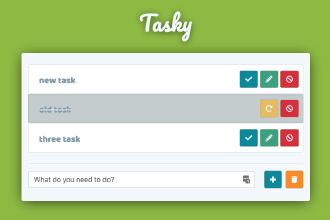
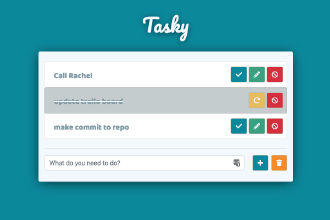
new color
added new primary color, added signature, meta sign, new tasky picture, temp favicon

diff --git a/assets/css/style.css b/assets/css/style.css
@@ -1,1 +1,1 @@
-*,*:before,*:after{padding:0;margin:0;-webkit-box-sizing:border-box;box-sizing:border-box}body{width:100%;height:100%;font-family:"Varela Round",sans-serif;background:#FAFAFA;overflow-x:hidden}ul{list-style-type:none}::-webkit-scrollbar{width:5px}::-webkit-scrollbar-track{background:#FAFAFA}::-webkit-scrollbar-thumb{background:#5C6A75}.btn-menu{z-index:2;display:none;-webkit-box-pack:center;-ms-flex-pack:center;justify-content:center;-webkit-box-align:center;-ms-flex-align:center;align-items:center;width:65px;height:50px;color:#FAFAFA;background:#59C3C3;border-bottom-right-radius:5px;-webkit-transition:1s;transition:1s;cursor:pointer}.btn-menu__icon{font-size:56px;-webkit-transition:1s;transition:1s}.btn-menu--open{-webkit-transform:translateX(300%);transform:translateX(300%)}.btn-menu--open .btn-menu__icon{-webkit-transition:1s;transition:1s;-webkit-transform:rotate(180deg);transform:rotate(180deg)}.menu-vertival{position:fixed;z-index:2;display:-webkit-box;display:-ms-flexbox;display:flex;-webkit-box-orient:vertical;-webkit-box-direction:normal;-ms-flex-direction:column;flex-direction:column;-webkit-box-pack:center;-ms-flex-pack:center;justify-content:center;-webkit-box-align:center;-ms-flex-align:center;align-items:center;min-width:200px;height:100%;text-align:center;background:#59C3C3;-webkit-transition:1s;transition:1s}.menu-vertival--open{-webkit-transform:translateX(0) !important;transform:translateX(0) !important;-webkit-transition:1s;transition:1s}.menu-vertival__list{margin-top:10px;text-transform:uppercase}.menu-vertival__list__child{margin:25px;border-bottom:solid 2px #59C3C3}.menu-vertival__list__child:hover a{color:#FAFAFA}.menu-vertival__item{font-size:22px;color:#b7e5e5;text-decoration:none;cursor:pointer}.menu-vertival__item--active a{color:#FAFAFA}.about{display:-webkit-box;display:-ms-flexbox;display:flex;-ms-flex-pack:distribute;justify-content:space-around;border-top:none !important;min-height:100vh;padding:45px;max-width:1250px}.about__box{display:-webkit-box;display:-ms-flexbox;display:flex}.profile-data__picture{width:90%;max-width:400px;height:auto;margin-bottom:10px;border-radius:5px;border:solid 5px #5C6A75}.about-colum{display:-webkit-box;display:-ms-flexbox;display:flex;-webkit-box-orient:vertical;-webkit-box-direction:normal;-ms-flex-direction:column;flex-direction:column;-webkit-box-pack:center;-ms-flex-pack:center;justify-content:center}.about-colum:nth-child(1){width:40%}.about-colum:nth-child(2){width:60%}.about__title{font-family:"Fredoka One",cursive;color:#59C3C3;font-size:52px}.about__subtitle{font-family:"Varela Round",sans-serif;color:#5C6A75;font-size:42px}.about__description{margin-top:35px;margin-bottom:35px}.networks__title{width:90%;text-align:center;color:#5C6A75;font-size:18px}.networks__list{display:-webkit-box;display:-ms-flexbox;display:flex;width:90%;max-width:400px;-webkit-box-pack:center;-ms-flex-pack:center;justify-content:center}.networks__list__item{margin-top:10px;margin-left:5px;margin-right:5px}.networks__link{text-decoration:none}.networks__icon{display:-webkit-box;display:-ms-flexbox;display:flex;-webkit-box-pack:center;-ms-flex-pack:center;justify-content:center;-webkit-box-align:center;-ms-flex-align:center;align-items:center;width:36px;height:36px;font-size:18px;border-radius:5px;background:#5C6A75;color:#FAFAFA}.networks__icon:hover{background:#59C3C3}.networks--mobile{display:none}.download-cv{margin-bottom:20px}.download-cv--container{padding:5px;color:#FAFAFA;text-decoration:none;border-radius:5px;background:#5C6A75}.download-cv--container:hover{background:#59C3C3}.download-cv--container:hover .download-cv--icon{-webkit-animation:arrow .4s infinite alternate;animation:arrow .4s infinite alternate}.download-cv--text{margin-left:5.5px}.download-cv--icon{margin-left:5.5px;margin-right:5.5px;-webkit-animation:none;animation:none}@-webkit-keyframes arrow{from{-webkit-transform:translateY(-2.5px);transform:translateY(-2.5px)}to{-webkit-transform:translateY(2.5px);transform:translateY(2.5px)}}@keyframes arrow{from{-webkit-transform:translateY(-2.5px);transform:translateY(-2.5px)}to{-webkit-transform:translateY(2.5px);transform:translateY(2.5px)}}.education__content{margin-top:45px}.timeline__item{font-size:20px;display:-webkit-box;display:-ms-flexbox;display:flex;-webkit-box-align:center;-ms-flex-align:center;align-items:center;margin:35px 5px}.timeline__date{font-size:16px;text-align:center;width:155px;min-width:155px;padding:5px 15px;margin-right:35px;border:solid 2.5px #59C3C3;color:#5C6A75;border-radius:5px;text-transform:uppercase}.timeline__year{display:block}.timeline__link{color:#5C6A75;text-decoration:none}.timeline__link:hover{color:#59C3C3}.timeline__title{display:block}.timeline__place{display:block;color:#9ea9b3}.abilities__header{justify-self:flex-start}.section__content{margin-top:auto;margin-bottom:auto}.abilities__title{font-size:32px;color:#5C6A75;margin-top:25px;margin-bottom:20px}.abilities__list{display:-webkit-box;display:-ms-flexbox;display:flex;-webkit-box-pack:center;-ms-flex-pack:center;justify-content:center;-ms-flex-wrap:wrap;flex-wrap:wrap;max-width:780px}.abilities__item--soft{min-width:115px}.abilities__item{font-size:42px;margin-left:5px;margin-right:5px}.abilities__icon__tech{font-size:58px}.abilities__icon{display:-webkit-box;display:-ms-flexbox;display:flex;-webkit-box-pack:center;-ms-flex-pack:center;justify-content:center;-webkit-box-align:center;-ms-flex-align:center;align-items:center;margin-bottom:15px;width:75px;color:#9ea9b3}.abilities__icon:hover{color:#59C3C3}.abilities__item--soft{display:-webkit-box;display:-ms-flexbox;display:flex;-webkit-box-orient:vertical;-webkit-box-direction:normal;-ms-flex-direction:column;flex-direction:column;-webkit-box-align:center;-ms-flex-align:center;align-items:center;margin:10px 15px}.abilities__icon--soft{margin-bottom:10px}.abilities__text{color:#9ea9b3;font-size:16px}.abilities__soft{margin-top:25px}.cards{display:-webkit-box;display:-ms-flexbox;display:flex;-ms-flex-wrap:wrap;flex-wrap:wrap;list-style:none;margin:0;padding:25px 0 0 0;max-width:1200px}.cards_item{display:-webkit-box;display:-ms-flexbox;display:flex;width:100%;-webkit-box-pack:center;-ms-flex-pack:center;justify-content:center;margin-top:0;padding:0 1em 2em}.no-flexbox .cards_item{float:left}@media screen and (min-width: 42em) and (max-width: 60em){.cards_item{width:50%}.no-flexbox .cards_item:nth-child(2n+1){clear:both}}@media screen and (min-width: 60em){.cards_item{width:33.3333%}.no-flexbox .cards_item:nth-child(3n+1){clear:both}}.card{-webkit-box-flex:1;-ms-flex:1 1 100%;flex:1 1 100%;display:-webkit-box;display:-ms-flexbox;display:flex;-webkit-box-orient:vertical;-webkit-box-direction:normal;-ms-flex-direction:column;flex-direction:column;background-color:#fff;border:0 solid #eee;border-radius:5px;-webkit-box-shadow:0px 7px 14px -2px #a3a3a3;box-shadow:0px 7px 14px -2px #a3a3a3}.card_image img{width:100%;border-top-left-radius:5px;border-top-right-radius:5px}.card_content{display:-webkit-box;display:-ms-flexbox;display:flex;-webkit-box-flex:1;-ms-flex:1 0 auto;flex:1 0 auto;-webkit-box-orient:vertical;-webkit-box-direction:normal;-ms-flex-direction:column;flex-direction:column;margin-top:0;padding:1.5em}.card_content p{margin-top:15px;margin-bottom:10px;-webkit-box-flex:1;-ms-flex:1 0 auto;flex:1 0 auto}.card_button{display:block;text-align:center;background:#59C3C3;border-radius:5px;padding:10px;color:#FAFAFA;text-decoration:none;text-transform:uppercase;font-size:18px;border:2px solid #59C3C3;-webkit-transition:all .2s ease-out;transition:all .2s ease-out}.card_button:hover{color:#59C3C3;background:#fff}.card_list{margin-bottom:10px;display:-webkit-box;display:-ms-flexbox;display:flex;-ms-flex-wrap:wrap;flex-wrap:wrap;-ms-flex-pack:distribute;justify-content:space-around}.card_list span{font-size:44px;width:35px}.card_list .fab{font-size:34px}.card_list .icon__text{font-size:30px}.main-icon{display:-webkit-box;display:-ms-flexbox;display:flex;-webkit-box-orient:vertical;-webkit-box-direction:normal;-ms-flex-direction:column;flex-direction:column;-webkit-box-pack:center;-ms-flex-pack:center;justify-content:center;-webkit-box-align:center;-ms-flex-align:center;align-items:center;text-align:center;text-decoration:none;width:220px;height:200px;border-radius:5px}.main-icon:hover{background:#59C3C3}.main-icon:hover .main-icon--icon,.main-icon:hover .main-icon--text{color:#FAFAFA}.social__main{margin-top:45px;margin-bottom:45px;display:-webkit-box;display:-ms-flexbox;display:flex;-ms-flex-pack:distribute;justify-content:space-around;max-width:600px}.main-icon--text{color:#5C6A75;font-size:20px}.main-icon--icon{font-size:125px;color:#5C6A75}.main-icon--icon:hover{color:#59C3C3}.social__second{margin-top:15px}.networks__contact .networks__list--contact{margin-top:35px;display:-webkit-box;display:-ms-flexbox;display:flex;width:90%;max-width:570px;-webkit-box-pack:space-evenly;-ms-flex-pack:space-evenly;justify-content:space-evenly}.networks__contact .networks__icon{width:56px;height:56px;font-size:38px}.container{display:-webkit-box;display:-ms-flexbox;display:flex;min-width:100vw;min-height:100vh;background:#FAFAFA}.content{width:100%;height:100%;background:#FAFAFA;margin-left:200px}.section{min-height:100vh;padding:45px;display:-webkit-box;display:-ms-flexbox;display:flex;-webkit-box-orient:vertical;-webkit-box-direction:normal;-ms-flex-direction:column;flex-direction:column}.section__title{font-size:45px;margin-bottom:15px;color:#5C6A75}.regular-text{font-size:22px;color:#5C6A75;max-width:1050px}@media screen and (max-width: 490px){.section__title{text-align:center}.about__name{display:block}.profile-data__picture{width:70%}.timeline{display:-webkit-box;display:-ms-flexbox;display:flex;-webkit-box-orient:horizontal;-webkit-box-direction:normal;-ms-flex-flow:row  wrap;flex-flow:row  wrap;-webkit-box-pack:justify;-ms-flex-pack:justify;justify-content:space-between}.timeline__item{display:-webkit-box;display:-ms-flexbox;display:flex;-webkit-box-orient:vertical;-webkit-box-direction:normal;-ms-flex-direction:column;flex-direction:column;margin:15px 5px;width:35vw}.timeline__date{font-size:18px;margin-bottom:10px;margin-right:0}.timeline__link{font-size:16px;-ms-flex-item-align:start;align-self:flex-start;margin-bottom:25px}.timeline__place{margin-top:5.5px}.abilities__item--soft{margin:15px 5px}.card{width:100% !important}.networks__contact .networks__icon{width:46px;height:46px;font-size:28px}.main-icon{width:175px;height:170px}.main-icon--text{font-size:16px}.timeline__date{font-size:14px;width:105px;min-width:105px}}@media screen and (max-width: 610px){.portfolio__row{-webkit-box-orient:vertical;-webkit-box-direction:normal;-ms-flex-direction:column;flex-direction:column;-webkit-box-align:center;-ms-flex-align:center;align-items:center}.card{width:350px !important}}@media screen and (max-width: 770px){.about__box{-webkit-box-orient:vertical;-webkit-box-direction:normal;-ms-flex-direction:column;flex-direction:column}.about-colum{display:-webkit-box;display:-ms-flexbox;display:flex;-webkit-box-pack:center;-ms-flex-pack:center;justify-content:center;-webkit-box-align:center;-ms-flex-align:center;align-items:center;width:100% !important}.profile-data{margin:auto}.profile-data__picture{width:75%;margin:auto;display:-webkit-box;display:-ms-flexbox;display:flex;margin-bottom:15px}.networks__list{display:none}.networks--mobile{display:-webkit-box;display:-ms-flexbox;display:flex;-ms-flex-pack:distribute;justify-content:space-around;width:100%}.networks--mobile .networks__icon{width:40px;height:40px}.download-cv--container{font-size:18px}.portfolio__row{padding:40px 0}.card{width:250px}}@media screen and (max-width: 1110px){.about__title{font-size:42px}.about__subtitle{font-size:34px}}@media screen and (max-width: 970px){.menu-vertival{height:100vh;-webkit-transform:translateX(-100%);transform:translateX(-100%);-webkit-transition:1s;transition:1s}.content{margin-left:0}.btn-menu{display:-webkit-box;display:-ms-flexbox;display:flex;position:fixed;-webkit-transition:1s;transition:1s}.regular-text{font-size:26px}.about__title{font-size:50px}.about__subtitle{font-size:42px}}@media screen and (max-width: 880px){.about__title{font-size:40px}}
+*,*:before,*:after{padding:0;margin:0;-webkit-box-sizing:border-box;box-sizing:border-box}body{width:100%;height:100%;font-family:"Varela Round",sans-serif;background:#FAFAFA;overflow-x:hidden}ul{list-style-type:none}.section-signature{display:-webkit-box;display:-ms-flexbox;display:flex;-webkit-box-pack:center;-ms-flex-pack:center;justify-content:center;background:whitesmoke;padding-top:15px;padding-bottom:15px}.signature{color:#85A9C1;font-family:Roboto, sans-serif}.signature__name{-webkit-transition:.5s;transition:.5s;color:#6E8CA0;text-decoration:none}.signature__name:hover{color:#1E6583;text-decoration:underline;-webkit-transition:.5s;transition:.5s}.svg-icon{width:1em;height:1em;-webkit-animation:pulse-animation .5s alternate infinite;animation:pulse-animation .5s alternate infinite;fill:#BA2632}@-webkit-keyframes pulse-animation{to{-webkit-transform:scale(1.2);transform:scale(1.2)}}@keyframes pulse-animation{to{-webkit-transform:scale(1.2);transform:scale(1.2)}}::-webkit-scrollbar{width:5px}::-webkit-scrollbar-track{background:#FAFAFA}::-webkit-scrollbar-thumb{background:#5C6A75}.btn-menu{z-index:2;display:none;-webkit-box-pack:center;-ms-flex-pack:center;justify-content:center;-webkit-box-align:center;-ms-flex-align:center;align-items:center;width:65px;height:50px;color:#FAFAFA;background:#85A9C1;border-bottom-right-radius:5px;-webkit-transition:1s;transition:1s;cursor:pointer}.btn-menu__icon{font-size:56px;-webkit-transition:1s;transition:1s}.btn-menu--open{-webkit-transform:translateX(300%);transform:translateX(300%)}.btn-menu--open .btn-menu__icon{-webkit-transition:1s;transition:1s;-webkit-transform:rotate(180deg);transform:rotate(180deg)}.menu-vertival{position:fixed;z-index:2;display:-webkit-box;display:-ms-flexbox;display:flex;-webkit-box-orient:vertical;-webkit-box-direction:normal;-ms-flex-direction:column;flex-direction:column;-webkit-box-pack:center;-ms-flex-pack:center;justify-content:center;-webkit-box-align:center;-ms-flex-align:center;align-items:center;min-width:200px;height:100%;text-align:center;background:#85A9C1;-webkit-transition:1s;transition:1s}.menu-vertival--open{-webkit-transform:translateX(0) !important;transform:translateX(0) !important;-webkit-transition:1s;transition:1s}.menu-vertival__list{margin-top:10px;text-transform:uppercase}.menu-vertival__list__child{margin:25px;border-bottom:solid 2px #85A9C1}.menu-vertival__list__child:hover a{color:#FAFAFA}.menu-vertival__item{font-size:22px;color:#dae5ec;text-decoration:none;cursor:pointer}.menu-vertival__item--active a{color:#FAFAFA}.about{display:-webkit-box;display:-ms-flexbox;display:flex;-ms-flex-pack:distribute;justify-content:space-around;border-top:none !important;min-height:100vh;padding:45px;max-width:1250px}.about__box{display:-webkit-box;display:-ms-flexbox;display:flex}.profile-data__picture{width:90%;max-width:400px;height:auto;margin-bottom:10px;border-radius:5px;border:solid 5px #5C6A75}.about-colum{display:-webkit-box;display:-ms-flexbox;display:flex;-webkit-box-orient:vertical;-webkit-box-direction:normal;-ms-flex-direction:column;flex-direction:column;-webkit-box-pack:center;-ms-flex-pack:center;justify-content:center}.about-colum:nth-child(1){width:40%}.about-colum:nth-child(2){width:60%}.about__title{font-family:"Fredoka One",cursive;color:#85A9C1;font-size:52px}.about__subtitle{font-family:"Varela Round",sans-serif;color:#5C6A75;font-size:42px}.about__description{margin-top:35px;margin-bottom:35px}.networks__title{width:90%;text-align:center;color:#5C6A75;font-size:18px}.networks__list{display:-webkit-box;display:-ms-flexbox;display:flex;width:90%;max-width:400px;-webkit-box-pack:center;-ms-flex-pack:center;justify-content:center}.networks__list__item{margin-top:10px;margin-left:5px;margin-right:5px}.networks__link{text-decoration:none}.networks__icon{display:-webkit-box;display:-ms-flexbox;display:flex;-webkit-box-pack:center;-ms-flex-pack:center;justify-content:center;-webkit-box-align:center;-ms-flex-align:center;align-items:center;width:36px;height:36px;font-size:18px;border-radius:5px;background:#5C6A75;color:#FAFAFA}.networks__icon:hover{background:#85A9C1}.networks--mobile{display:none}.download-cv{margin-bottom:20px}.download-cv--container{padding:5px;color:#FAFAFA;text-decoration:none;border-radius:5px;background:#5C6A75}.download-cv--container:hover{background:#85A9C1}.download-cv--container:hover .download-cv--icon{-webkit-animation:arrow .4s infinite alternate;animation:arrow .4s infinite alternate}.download-cv--text{margin-left:5.5px}.download-cv--icon{margin-left:5.5px;margin-right:5.5px;-webkit-animation:none;animation:none}@-webkit-keyframes arrow{from{-webkit-transform:translateY(-2.5px);transform:translateY(-2.5px)}to{-webkit-transform:translateY(2.5px);transform:translateY(2.5px)}}@keyframes arrow{from{-webkit-transform:translateY(-2.5px);transform:translateY(-2.5px)}to{-webkit-transform:translateY(2.5px);transform:translateY(2.5px)}}.education__content{margin-top:45px}.timeline__item{font-size:20px;display:-webkit-box;display:-ms-flexbox;display:flex;-webkit-box-align:center;-ms-flex-align:center;align-items:center;margin:35px 5px}.timeline__date{font-size:16px;text-align:center;width:155px;min-width:155px;padding:5px 15px;margin-right:35px;border:solid 2.5px #85A9C1;color:#5C6A75;border-radius:5px;text-transform:uppercase}.timeline__year{display:block}.timeline__link{color:#5C6A75;text-decoration:none}.timeline__link:hover{color:#85A9C1}.timeline__title{display:block}.timeline__place{display:block;color:#9ea9b3}.abilities__header{justify-self:flex-start}.section__content{margin-top:auto;margin-bottom:auto}.abilities__title{font-size:32px;color:#5C6A75;margin-top:25px;margin-bottom:20px}.abilities__list{display:-webkit-box;display:-ms-flexbox;display:flex;-webkit-box-pack:center;-ms-flex-pack:center;justify-content:center;-ms-flex-wrap:wrap;flex-wrap:wrap;max-width:780px}.abilities__item--soft{min-width:115px}.abilities__item{font-size:42px;margin-left:5px;margin-right:5px}.abilities__icon__tech{font-size:58px}.abilities__icon{display:-webkit-box;display:-ms-flexbox;display:flex;-webkit-box-pack:center;-ms-flex-pack:center;justify-content:center;-webkit-box-align:center;-ms-flex-align:center;align-items:center;margin-bottom:15px;width:75px;color:#9ea9b3}.abilities__icon:hover{color:#85A9C1}.abilities__item--soft{display:-webkit-box;display:-ms-flexbox;display:flex;-webkit-box-orient:vertical;-webkit-box-direction:normal;-ms-flex-direction:column;flex-direction:column;-webkit-box-align:center;-ms-flex-align:center;align-items:center;margin:10px 15px}.abilities__icon--soft{margin-bottom:10px}.abilities__text{color:#9ea9b3;font-size:16px}.abilities__soft{margin-top:25px}.cards{display:-webkit-box;display:-ms-flexbox;display:flex;-ms-flex-wrap:wrap;flex-wrap:wrap;list-style:none;margin:0;padding:25px 0 0 0;max-width:1200px}.cards_item{display:-webkit-box;display:-ms-flexbox;display:flex;width:100%;-webkit-box-pack:center;-ms-flex-pack:center;justify-content:center;margin-top:0;padding:0 1em 2em}.no-flexbox .cards_item{float:left}@media screen and (min-width: 42em) and (max-width: 60em){.cards_item{width:50%}.no-flexbox .cards_item:nth-child(2n+1){clear:both}}@media screen and (min-width: 60em){.cards_item{width:33.3333%}.no-flexbox .cards_item:nth-child(3n+1){clear:both}}.card{-webkit-box-flex:1;-ms-flex:1 1 100%;flex:1 1 100%;display:-webkit-box;display:-ms-flexbox;display:flex;-webkit-box-orient:vertical;-webkit-box-direction:normal;-ms-flex-direction:column;flex-direction:column;background-color:#fff;border:0 solid #eee;border-radius:5px;-webkit-box-shadow:0px 7px 14px -2px #a3a3a3;box-shadow:0px 7px 14px -2px #a3a3a3}.card_image img{width:100%;border-top-left-radius:5px;border-top-right-radius:5px}.card_content{display:-webkit-box;display:-ms-flexbox;display:flex;-webkit-box-flex:1;-ms-flex:1 0 auto;flex:1 0 auto;-webkit-box-orient:vertical;-webkit-box-direction:normal;-ms-flex-direction:column;flex-direction:column;margin-top:0;padding:1.5em}.card_content p{margin-top:15px;margin-bottom:10px;-webkit-box-flex:1;-ms-flex:1 0 auto;flex:1 0 auto}.card_button{display:block;text-align:center;background:#85A9C1;border-radius:5px;padding:10px;color:#FAFAFA;text-decoration:none;text-transform:uppercase;font-size:18px;border:2px solid #85A9C1;-webkit-transition:all .2s ease-out;transition:all .2s ease-out}.card_button:hover{color:#85A9C1;background:#fff}.card_list{margin-bottom:10px;display:-webkit-box;display:-ms-flexbox;display:flex;-ms-flex-wrap:wrap;flex-wrap:wrap;-ms-flex-pack:distribute;justify-content:space-around}.card_list span{font-size:44px;width:35px}.card_list .fab{font-size:34px}.card_list .icon__text{font-size:30px}.main-icon{display:-webkit-box;display:-ms-flexbox;display:flex;-webkit-box-orient:vertical;-webkit-box-direction:normal;-ms-flex-direction:column;flex-direction:column;-webkit-box-pack:center;-ms-flex-pack:center;justify-content:center;-webkit-box-align:center;-ms-flex-align:center;align-items:center;text-align:center;text-decoration:none;width:220px;height:200px;border-radius:5px}.main-icon:hover{background:#85A9C1}.main-icon:hover .main-icon--icon,.main-icon:hover .main-icon--text{color:#FAFAFA}.social__main{margin-top:45px;margin-bottom:45px;display:-webkit-box;display:-ms-flexbox;display:flex;-ms-flex-pack:distribute;justify-content:space-around;max-width:600px}.main-icon--text{color:#5C6A75;font-size:20px}.main-icon--icon{font-size:125px;color:#5C6A75}.main-icon--icon:hover{color:#85A9C1}.social__second{margin-top:15px}.networks__contact .networks__list--contact{margin-top:35px;display:-webkit-box;display:-ms-flexbox;display:flex;width:90%;max-width:570px;-webkit-box-pack:space-evenly;-ms-flex-pack:space-evenly;justify-content:space-evenly}.networks__contact .networks__icon{width:56px;height:56px;font-size:38px}.container{display:-webkit-box;display:-ms-flexbox;display:flex;min-width:100vw;min-height:100vh;background:#FAFAFA}.content{width:100%;height:100%;background:#FAFAFA;margin-left:200px}.section{min-height:100vh;padding:45px;display:-webkit-box;display:-ms-flexbox;display:flex;-webkit-box-orient:vertical;-webkit-box-direction:normal;-ms-flex-direction:column;flex-direction:column}.section__title{font-size:45px;margin-bottom:15px;color:#5C6A75}.regular-text{font-size:22px;color:#5C6A75;max-width:1050px}@media screen and (max-width: 490px){.section__title{text-align:center}.about__name{display:block}.profile-data__picture{width:70%}.timeline{display:-webkit-box;display:-ms-flexbox;display:flex;-webkit-box-orient:horizontal;-webkit-box-direction:normal;-ms-flex-flow:row  wrap;flex-flow:row  wrap;-webkit-box-pack:justify;-ms-flex-pack:justify;justify-content:space-between}.timeline__item{display:-webkit-box;display:-ms-flexbox;display:flex;-webkit-box-orient:vertical;-webkit-box-direction:normal;-ms-flex-direction:column;flex-direction:column;margin:15px 5px;width:35vw}.timeline__date{font-size:18px;margin-bottom:10px;margin-right:0}.timeline__link{font-size:16px;-ms-flex-item-align:start;align-self:flex-start;margin-bottom:25px}.timeline__place{margin-top:5.5px}.abilities__item--soft{margin:15px 5px}.card{width:100% !important}.networks__contact .networks__icon{width:46px;height:46px;font-size:28px}.main-icon{width:175px;height:170px}.main-icon--text{font-size:16px}.timeline__date{font-size:14px;width:105px;min-width:105px}}@media screen and (max-width: 610px){.portfolio__row{-webkit-box-orient:vertical;-webkit-box-direction:normal;-ms-flex-direction:column;flex-direction:column;-webkit-box-align:center;-ms-flex-align:center;align-items:center}.card{width:350px !important}}@media screen and (max-width: 770px){.about__box{-webkit-box-orient:vertical;-webkit-box-direction:normal;-ms-flex-direction:column;flex-direction:column}.about-colum{display:-webkit-box;display:-ms-flexbox;display:flex;-webkit-box-pack:center;-ms-flex-pack:center;justify-content:center;-webkit-box-align:center;-ms-flex-align:center;align-items:center;width:100% !important}.profile-data{margin:auto}.profile-data__picture{width:75%;margin:auto;display:-webkit-box;display:-ms-flexbox;display:flex;margin-bottom:15px}.networks__list{display:none}.networks--mobile{display:-webkit-box;display:-ms-flexbox;display:flex;-ms-flex-pack:distribute;justify-content:space-around;width:100%}.networks--mobile .networks__icon{width:40px;height:40px}.download-cv--container{font-size:18px}.portfolio__row{padding:40px 0}.card{width:250px}}@media screen and (max-width: 1110px){.about__title{font-size:42px}.about__subtitle{font-size:34px}}@media screen and (max-width: 970px){.menu-vertival{height:100vh;-webkit-transform:translateX(-100%);transform:translateX(-100%);-webkit-transition:1s;transition:1s}.content{margin-left:0}.btn-menu{display:-webkit-box;display:-ms-flexbox;display:flex;position:fixed;-webkit-transition:1s;transition:1s}.regular-text{font-size:26px}.about__title{font-size:50px}.about__subtitle{font-size:42px}}@media screen and (max-width: 880px){.about__title{font-size:40px}}

diff --git a/index.html b/index.html
@@ -4,7 +4,10 @@
     <meta charset="UTF-8">
     <meta name="viewport" content="width=device-width, initial-scale=1.0">
     <meta http-equiv="X-UA-Compatible" content="ie=edge">
+    <meta name="author" content="Dáger Zúñiga N.">
     <title>@dagerzuga</title>
+    <link rel="shortcut icon" href="/assets/favicon.ico" type="image/x-icon">
+    <link href="https://fonts.googleapis.com/css?family=Roboto:400,500,700" rel="stylesheet">
     <link href="https://fonts.googleapis.com/css?family=Fredoka+One|Varela+Round" rel="stylesheet">
     <link href='//cdn.jsdelivr.net/devicons/1.8.0/css/devicons.min.css' rel='stylesheet'>
     <link rel="stylesheet" href="https://use.fontawesome.com/releases/v5.7.1/css/all.css" integrity="sha384-fnmOCqbTlWIlj8LyTjo7mOUStjsKC4pOpQbqyi7RrhN7udi9RwhKkMHpvLbHG9Sr" crossorigin="anonymous">
@@ -313,7 +316,7 @@
                     
                                 <div class="card_content">
                                         <h2 class="card_heading">Messenger</h2>
-                                        <p>A all functional facebook messenger-like chat built using laravel, BootstrapVue, pusher, Vue-router, Axios & Vuex.
+                                        <p>All functional facebook messenger-like chat built using laravel, BootstrapVue, pusher, Vue-router, Axios & Vuex.
                                         </p>
                                         <ul class="card_list">
                                                 <span class="abilities__icon abilities__icon__tech  fab fa-vuejs"></span>
@@ -349,7 +352,7 @@
                             </div>
                     </li>
                 
-                    <!-- Vacations where -->
+                    <!-- Vacationswhere -->
                     <li class="cards_item">
                             <div class="card">
                     
@@ -359,8 +362,7 @@
                     
                                 <div class="card_content">
                                         <h2 class="card_heading">vacationswhere</h2>
-                                        <p>Vacations & travel website - only front - made using modern css techniques such as flex-box and css grid. 
-                                            Fully responsive, parallax effect on hero image and sticky footer button.
+                                        <p>Vacations & travel website - only front - made using mobile first approach and modern css techniques such as flex-box and css grid.
                                         </p>
                                         <ul class="card_list">
                                                 <span class="abilities__icon abilities__icon__tech  devicons devicons-html5"></span>
@@ -486,7 +488,16 @@
                     </div>
 
                 </div>
-                
+
+            </section>
+
+            <section class="section-signature">
+                <p class="signature">made with <svg class="svg-icon" viewBox="0 0 82.09 72">
+                    <path d="M75.36,6.7a23,23,0,0,0-34.3,2.1A23,23,0,0,0,6.76,6.7a22.44,22.44,0,
+                             0,0-3.5,27.7,21.18,21.18,0,0,0,3.5,4.4l32.9,32.6a1.93,1.93,0,0,0,2.8,
+                             0l32.9-32.6a21.18,21.18,0,0,0,3.5-4.4A22.58,22.58,0,0,0,75.36,6.7Z"/></svg>
+                    by <a href="https://www.dagerzuga.com/" target="_blank" class="signature__name">@dagerzuga</a>
+                </p>
             </section>
 
         </div>

diff --git a/assets/sass/helpers/_signature.scss b/assets/sass/helpers/_signature.scss
@@ -1,0 +1,37 @@
+/* Signature */
+.section-signature{
+    display: flex;
+    justify-content: center;
+    // min-width: 100vw;
+    // min-height: 100vh;
+    // background: $secondary-color;
+    background: whitesmoke;
+    padding-top: 15px;
+    padding-bottom: 15px;
+}
+.signature{
+    color: #85A9C1;
+    font-family: Roboto, sans-serif;
+  }
+   
+  .signature__name{
+    transition: .5s;
+    color: #6E8CA0;
+    text-decoration: none;
+    &:hover{
+      color: #1E6583;
+      text-decoration: underline;
+      transition: .5s;
+    }
+  }
+   
+  .svg-icon {
+    width: 1em;
+    height: 1em;
+    animation: pulse-animation .5s alternate infinite;
+    fill: #BA2632;
+  }
+   
+@keyframes pulse-animation{
+    to{transform: scale(1.2);}
+}

diff --git a/assets/sass/helpers/_variables.scss b/assets/sass/helpers/_variables.scss
@@ -1,6 +1,8 @@
-$primary-color: #59C3C3;
+// $primary-color: #59C3C3;
+$primary-color: #85A9C1;
 $secondary-color: #FAFAFA;
 $ternary-color: #5C6A75;
+// $ternary-color: #5C6A75;
 $ternary-color-light: lighten($ternary-color, 25%);
 
 $time-in: .3s;

diff --git a/assets/sass/style.scss b/assets/sass/style.scss
@@ -1,6 +1,7 @@
 // helpers
 @import './helpers/variables';
 @import './helpers/reset';
+@import './helpers/signature';
 
 // components
 @import './components/scrollbar';
